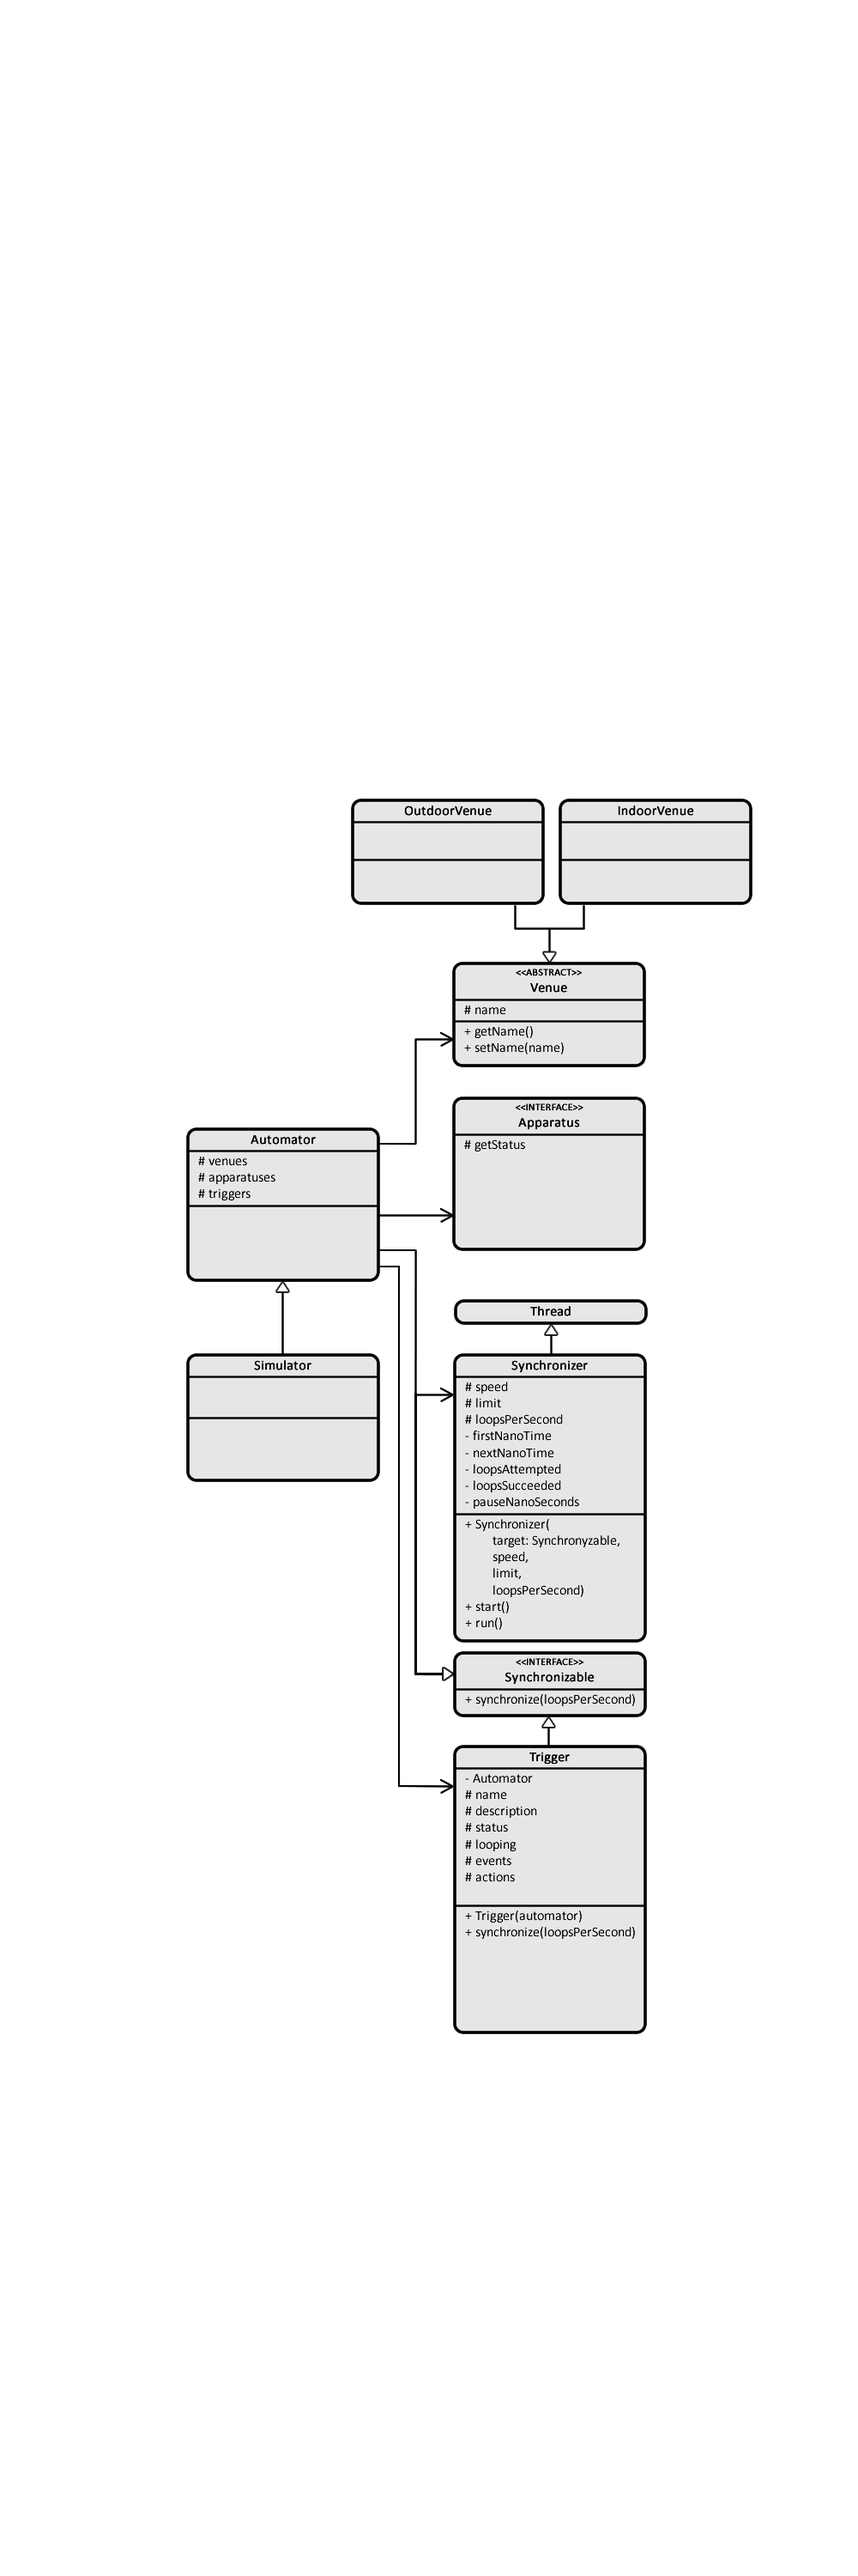
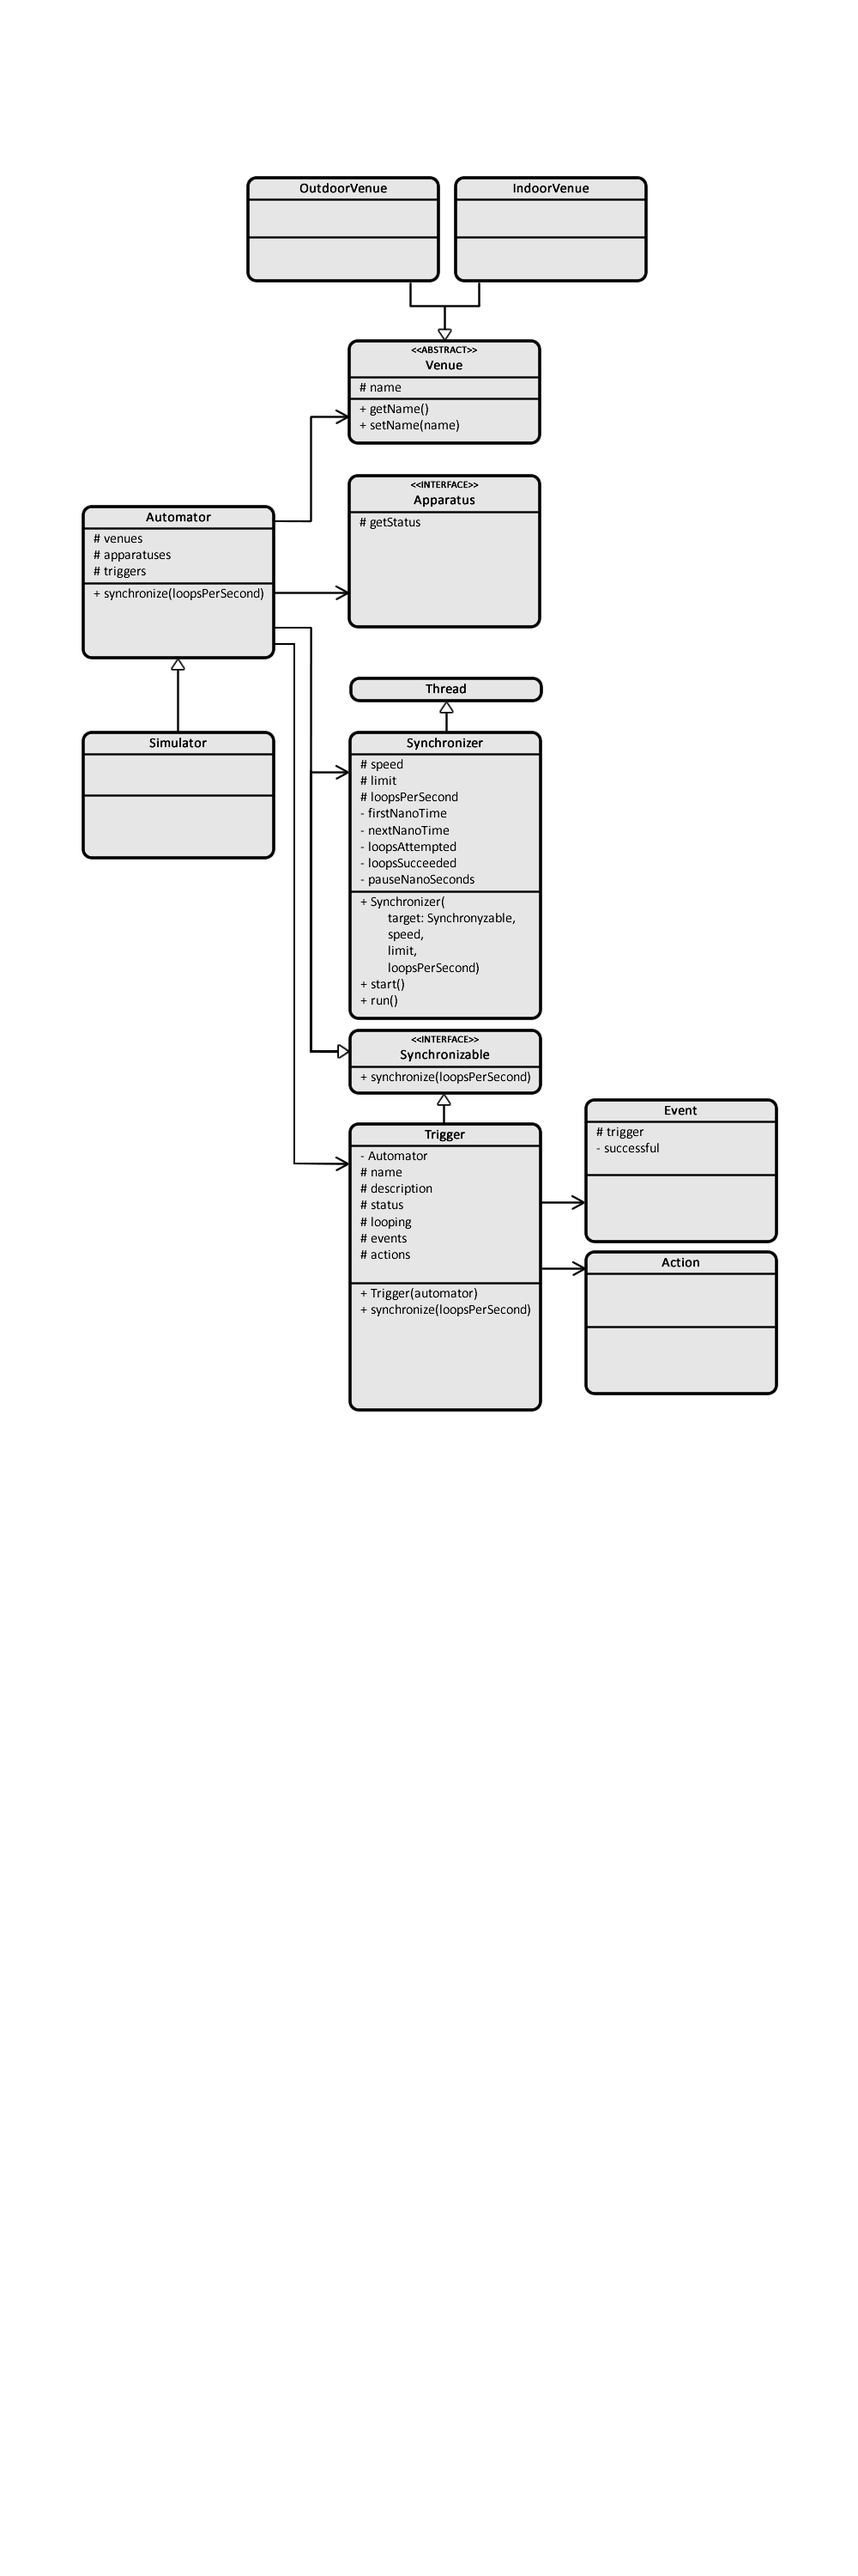
Update the Trigger class
Add the name, description, status, and looping state of the trigger.

Changed region(s): [[0.217, 0.062, 0.93, 0.806], [0.093, 0.186, 0.372, 0.403]]

diff --git a/src/Trigger.java b/src/Trigger.java
@@ -1,15 +1,99 @@
+// Author: Yvan Burrie
+
+import org.json.simple.JSONObject;
+
+import java.util.ArrayList;
 
 /**
- * 
+ *
  */
-public class Trigger {
+public class Trigger implements JsonDeserializable {
 
     private Automator automator;
 
     public Automator getAutomator() { return automator; }
 
+    private String name = "Un-named Trigger";
+
+    public String getName() { return name; }
+
+    public void setName(String name) { this.name = name; }
+
+    private String description = "";
+
+    public String getDescription() { return description; }
+
+    public void setDescription(String description) { this.description = description; }
+
+    public enum Status {
+        ASLEEP,
+        READY,
+        DONE,
+    }
+
+    private Status status = Status.ASLEEP;
+
+    public Status getStatus() { return status; }
+
+    public void setStatus(Status status) { this.status = status; }
+
+    private boolean looping = false;
+
+    public boolean isLooping() { return looping; }
+
+    public void setLooping(boolean looping) { this.looping = looping; }
+
+    abstract protected class Event implements JsonDeserializable {
+
+        protected Trigger trigger;
+
+        final static String jsonMacro = "DEFAULT";
+
+        protected boolean successful = false;
+
+        public boolean isSuccessful() { return successful; }
+
+        public Event(Trigger trigger) {
+
+            this.trigger = trigger;
+        }
+
+        @Override
+        public JSONObject jsonSerialize() {
+            return null;
+        }
+
+        @Override
+        public void jsonDeserialize(JSONObject jsonObject) {
+
+        }
+    }
+
     public Trigger(Automator automator) {
     
         this.automator = automator;
+    }
+
+    private ArrayList<Event> events;
+
+    class Action {
+
+    }
+
+    private ArrayList<Action> actions;
+
+    public Trigger(Automator automator) {
+
+        this.automator = automator;
+    }
+
+    @Override
+    public JSONObject jsonSerialize() {
+        return null;
+    }
+
+    @Override
+    public void jsonDeserialize(JSONObject jsonObject) {
+
     }
 }
